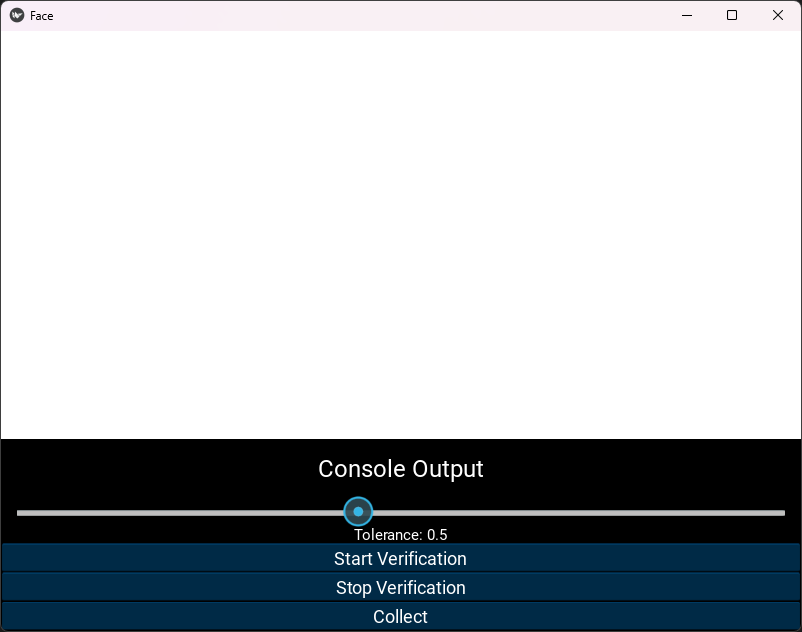
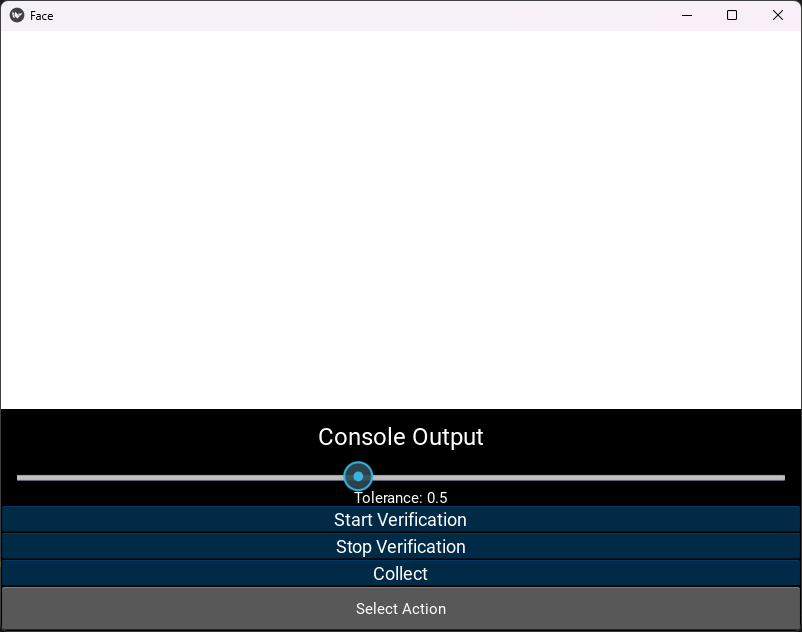
updated readme

Changed region(s): [[0.0, 0.6313, 1.0, 1.0]]

diff --git a/main.py b/main.py
@@ -1,6 +1,6 @@
-#Importing dependencies
+# Importing dependencies
 
-#Dpendencies for kivy
+# Dendencies for kivy
 from kivy.config import Config
 from kivy.core.text import LabelBase
 from kivy.utils import get_color_from_hex
@@ -15,16 +15,16 @@ from kivy.logger import Logger
 from kivy.uix.slider import Slider
 from kivy.uix.dropdown import DropDown
 
-#OpenCV2
+# OpenCV2
 import cv2
 
-#Tensorflow
+# Tensorflow
 import tensorflow as tf
 from tensorflow import keras
 from tensorflow.keras.models import load_model
 import face_recognition
 
-#Miscellaneous
+# Miscellaneous
 import ctypes
 import pickle
 import time
@@ -38,9 +38,9 @@ Config.set('kivy', 'window_icon', 'data\kivy\icon.ico')
 # Register a custom font
 LabelBase.register(name='Roboto', fn_regular=os.path.join('data', 'font', 'Roboto-Regular.ttf'))
 
-#Defining class for the application
+# Defining class for the application
 class FaceApp(App):
-    #The build function is the __init__ function for kivy based applications
+    # The build function is the __init__ function for kivy based applications
     def build(self):
         # Layout Configuration
         layout = BoxLayout(orientation='vertical', padding=10, spacing=10)
@@ -75,7 +75,7 @@ class FaceApp(App):
         self.mainbutton.bind(on_release=self.dropdown.open)
         self.dropdown.bind(on_select=lambda instance, x: setattr(self.mainbutton, 'text', x))
         self.bboxcolour = (255, 0, 0)
-        #Cheking to see if the files structure is correct and building them if necessary using the os library
+        # Cheking to see if the files structure is correct and building them if necessary using the os library
         try:
             with open(os.path.join('data', 'encodings', 'face_encodings.pickle'), 'rb') as openfile:
                 self.known_faces = pickle.load(openfile)
@@ -87,7 +87,7 @@ class FaceApp(App):
 
         if not os.path.exists(os.path.join('data', 'collected_images')):
             os.makedirs(os.path.join('data', 'collected_images'))
-        #Defining the order and orientation of the kivy widgets
+        # Defining the order and orientation of the kivy widgets
         layout = BoxLayout(orientation='vertical')
         layout.add_widget(self.livefeed)
         layout.add_widget(self.consoleoutput)
@@ -97,14 +97,14 @@ class FaceApp(App):
         layout.add_widget(self.stopverifybutton)
         layout.add_widget(self.collectbutton)
         layout.add_widget(self.mainbutton)
-        #Telling OpenCV to flip the camera output along the vertical axis and use a 720,720 resolution
+        # Telling OpenCV to flip the camera output along the vertical axis and use a 720,720 resolution
         self.capture = cv2.VideoCapture(0)
         self.capture.set(cv2.CAP_PROP_FRAME_WIDTH, 720)
         self.capture.set(cv2.CAP_PROP_FRAME_WIDTH, 720)
         self.face_detection_running = False
         Clock.schedule_interval(self.face_detection, 1.0 / 33.0)
         return layout
-    #Defining the functions of the buttons
+    # Defining the functions of the buttons
     def start_face_detection(self, *args):
         self.face_detection_running = True
         self.verifybutton.background_color = get_color_from_hex('#7BE495')
@@ -122,73 +122,73 @@ class FaceApp(App):
         if not self.face_detection_running:
             return
         
-        ret, frame = self.capture.read() #Telling OpenCV to access the webcam
+        ret, frame = self.capture.read() # Telling OpenCV to access the webcam
         rgb = cv2.cvtColor(frame, cv2.COLOR_BGR2RGB)
         
-        resized = tf.image.resize(rgb, (224, 224)) #Using a built in tensorflow function to resize the image to fit the input of the CNN, it is resized and not cropped so the information about the geometry is still there
+        resized = tf.image.resize(rgb, (224, 224)) # Using a built in tensorflow function to resize the image to fit the input of the CNN, it is resized and not cropped so the information about the geometry is still there
         
-        yhat = self.face_detector.predict(np.expand_dims(np.divide(resized, 255), 0)) #Pretty proud of this code, this is to normalise the values of each of the pixel valus from 0-255 to 0-1 for use in the CNN
+        yhat = self.face_detector.predict(np.expand_dims(np.divide(resized, 255), 0)) # Pretty proud of this code, this is to normalise the values of each of the pixel valus from 0-255 to 0-1 for use in the CNN
         
-        xmin, ymin, xmax, ymax = yhat[1][0] #Utlilising unpacking to save the bounding box coordinates into their respective variables
+        xmin, ymin, xmax, ymax = yhat[1][0] # Utlilising unpacking to save the bounding box coordinates into their respective variables
         
-        abs_xmin, abs_ymin, abs_xmax, abs_ymax = np.multiply([xmin, ymin, xmax, ymax], 720).astype(int) #Converting the normalised coordinates back into pixel coordinates
-        #Drawing a bounding box if the confidence is greater than 0.5 (50%)
+        abs_xmin, abs_ymin, abs_xmax, abs_ymax = np.multiply([xmin, ymin, xmax, ymax], 720).astype(int) # Converting the normalised coordinates back into pixel coordinates
+        # Drawing a bounding box if the confidence is greater than 0.5 (50%)
         if yhat[0] > 0.5:
-            #Some manipulation of the bounding box
+            # Some manipulation of the bounding box
             cv2.rectangle(frame, (abs_xmin - 20, abs_ymin - 20), (abs_xmax - 50, abs_ymax - 50), self.bboxcolour, 2)
             cv2.circle(frame, (abs_xmin - 20, abs_ymin - 20), radius=2, color=(0, 0, 255), thickness=2)
             cv2.circle(frame, (abs_xmax - 50, abs_ymax - 50), radius=2, color=(0, 0, 255), thickness=2)
             self.consoleoutput.text = 'Face Detected'
             self.bboxcolour = (255, 0, 0)
-            #If no faces are recognised the function will return nothing, then all indexes will be out of range and the application will fail, to prevent this a try/except block is used
+            # If no faces are recognised the function will return nothing, then all indexes will be out of range and the application will fail, to prevent this a try/except block is used
             try:
                 
-                cropped_frame = frame[abs_ymin - 20:abs_ymax - 50, abs_xmin - 20:abs_xmax - 50] #This is cool, using indexing to crop the webcam feed be only the face and saving it as another variable for use later
+                cropped_frame = frame[abs_ymin - 20:abs_ymax - 50, abs_xmin - 20:abs_xmax - 50] # This is cool, using indexing to crop the webcam feed be only the face and saving it as another variable for use later
                 
-                rgb_cropped_frame = cv2.cvtColor(cropped_frame, cv2.COLOR_BGR2RGB) #Manipulatin of colour and OpenCV uses BGR format
+                rgb_cropped_frame = cv2.cvtColor(cropped_frame, cv2.COLOR_BGR2RGB) # Manipulatin of colour and OpenCV uses BGR format
                 unknown_face_encoding = face_recognition.face_encodings(rgb_cropped_frame)
-                #Creating a flag to represent the state of the system for use later
+                # Creating a flag to represent the state of the system for use later
                 flag = False
-                #Looping through the collection of face encodings of a presaved known face
+                # Looping through the collection of face encodings of a presaved known face
                 for known_face in self.known_faces:
-                    #Comparing faces
+                    # Comparing faces
                     results = face_recognition.compare_faces(known_face, unknown_face_encoding,
                                                              tolerance=self.tolerance)
-                    #If an authorised face is deteced
+                    # If an authorised face is deteced
                     if results[0] == True:
                         counter = 0
-                        #set the flag to true and print it in the console for debuggin purposes
+                        # set the flag to true and print it in the console for debuggin purposes
                         flag = True
                         print(flag)
                         self.consoleoutput.text = 'Face Detected | Authorised'
-                        #Set bounding box colour to green for it to be intuitive
+                        # Set bounding box colour to green for it to be intuitive
                         self.bboxcolour = (0, 255, 0)
                         print(counter)
                         break
-                #If an unauthorised face is deteced
+                # If an unauthorised face is deteced
                 if flag == False:
-                    #Add one to the counter of failed attempts
+                    # Add one to the counter of failed attempts
                     self.counter += 1
                     print(flag)
                     self.consoleoutput.text = 'Face Detected | Not Authorised'
-                    #Set the bounding box to red
+                    # Set the bounding box to red
                     self.bboxcolour = (0, 0, 255)
                     print(counter)
             except:
-                #This took a long time to figure out, pass ensures that the next bit of the code still runs in case the loop is paused mid way
+                # This took a long time to figure out, pass ensures that the next bit of the code still runs in case the loop is paused mid way
                 pass
-            #Defining what to do if there are three failed attempts within 1 minute
+            # Defining what to do if there are three failed attempts within 1 minute
             if self.counter == 3:
                 print('fail limit reached')
-                #Resetting the counter so that an authorised user can log in and still use the system
+                # Resetting the counter so that an authorised user can log in and still use the system
                 self.counter = 0
                 if self.mainbutton.text == 'Lock System':
-                    #Using ctypes to send a lock command
+                    # Using ctypes to send a lock command
                     ctypes.windll.user32.LockWorkStation()
                 elif self.mainbutton.text == "Just Notify":
                     current_time = time.time()
                     print(f"Time since last notification: {current_time - self.last_notification_time}")
-                    #Sending notification only if the last one was sent over a minute ago
+                    # Sending notification only if the last one was sent over a minute ago
                     if current_time - self.last_notification_time > 60:
                         print("Sending notification...")
                         toast = Notification(app_id='Face Recognition', title='Unauthorized Access', msg='You are not authorized to access this system', duration='long', icon=r'C:\Users\Administrator\Documents\Code_Files\Facial_Recognition_App\data\kivy\icon.ico')
@@ -198,40 +198,40 @@ class FaceApp(App):
                     else:
                         print("Not enough time has passed since the last notification.")
 
-            #Resetting the time currrent_time variables which governs time elapsed for the current counter
+            # Resetting the time currrent_time variables which governs time elapsed for the current counter
             current_time = time.time()
-            #This if statement resets the counter every 60 seconds
+            # This if statement resets the counter every 60 seconds
             if current_time - self.last_reset_time > 60:
                 self.counter = 0
                 self.last_reset_time = current_time
-        #Prints no face detected if nothing at all is detected
+        # Prints no face detected if nothing at all is detected
         else:
             self.consoleoutput.text = 'No Face Detected'
-        #Very hacking way to display the live camera feed, there is no native function for it in kivy, this is a texture that is mapped onto a box that gets updated as soon as another frame is received from the webcam
+        # Very hacking way to display the live camera feed, there is no native function for it in kivy, this is a texture that is mapped onto a box that gets updated as soon as another frame is received from the webcam
         buf = cv2.flip(frame, 0).tostring()
         video_texture = Texture.create(size=(frame.shape[1], frame.shape[0]), colorfmt='bgr')
         video_texture.blit_buffer(buf, colorfmt='bgr', bufferfmt='ubyte')
         self.livefeed.texture = video_texture
-    #Defining the function of collecting images of an authorised face and converting them into face encodings for use in facial recognition
+    # Defining the function of collecting images of an authorised face and converting them into face encodings for use in facial recognition
     def datacollection(self, *args):
 
         capture = cv2.VideoCapture(0)
         capture.set(cv2.CAP_PROP_FRAME_WIDTH, 720)
         capture.set(cv2.CAP_PROP_FRAME_WIDTH, 720)
-        #Defining that we would collect 9 images
+        # Defining that we would collect 9 images
         self.consoleoutput.text = 'Data Collection Started'
         for imgnum in range(9):
             ret, frame = capture.read()
             rgb = cv2.cvtColor(frame, cv2.COLOR_BGR2RGB)
             resized = tf.image.resize(rgb, (224, 224))
             yhat = self.face_detector.predict(np.expand_dims(np.divide(resized, 255), 0))
-            #Utilising the face detection CNN to collect only the face to improve performance and accuracy of the face recognition model
+            # Utilising the face detection CNN to collect only the face to improve performance and accuracy of the face recognition model
             xmin, ymin, xmax, ymax = yhat[1][0]
             abs_xmin, abs_ymin, abs_xmax, abs_ymax = np.multiply([xmin, ymin, xmax, ymax], 720).astype(int)
 
             cropped_frame = frame[abs_ymin - 20:abs_ymax - 50, abs_xmin - 20:abs_xmax - 50]
             rgb_cropped_frame = cv2.cvtColor(cropped_frame, cv2.COLOR_BGR2RGB)
-            #Naming the images intuitively using an f string
+            # Naming the images intuitively using an f string
             image_name = os.path.join('data', 'collected_images', f'{imgnum}.jpg')
             time.sleep(1)
             cv2.imwrite(image_name, cropped_frame)
@@ -241,25 +241,25 @@ class FaceApp(App):
         cv2.destroyAllWindows()
 
         known_face_encodings = []
-        #Starting the loop to convert the collected images of faces into face encodings
+        # Starting the loop to convert the collected images of faces into face encodings
         for i in range(9):
             my_face = face_recognition.load_image_file(os.path.join('data', 'collected_images', f'{i}.jpg'))
             my_face_encoding = face_recognition.face_encodings(my_face)
             if len(my_face_encoding) > 0:
-                #I put them in a list so that I can index them in a loop instead of having to call each individual face encoding seperately
+                # I put them in a list so that I can index them in a loop instead of having to call each individual face encoding seperately
                 known_face_encodings.append(my_face_encoding[0])
             else:
                 print(f'No face detected in image {i}.jpg')
-        #Pickling them into a binary file a sort of pseudoencryption algorithm
+        # Pickling them into a binary file a sort of pseudoencryption algorithm
         with open(os.path.join('data', 'encodings', 'face_encodings.pickle'), 'wb') as f:
             pickle.dump(known_face_encodings, f)
-        #Waiting 5 seconds to ensure that the encodings have been pickled
+        # Waiting 5 seconds to ensure that the encodings have been pickled
         time.sleep(5)
-        #Deleting all the unnesecary files generated in the process
+        # Deleting all the unnesecary files generated in the process
         for file in os.listdir(os.path.join('data', 'collected_images')):
             if os.path.isfile(os.path.join('data', 'collected_images', file)):
                 os.remove(os.path.join('data', 'collected_images', file))
 
-#Calling the main application
+# Calling the main application
 if __name__ == '__main__':
     FaceApp().run()

diff --git a/README.md b/README.md
@@ -8,7 +8,7 @@ As a prerequisite, please make sure that:
 - All dependencies outlined in the requirements.txt file are installed in you preferred directory and environment.
 - The latest version of Git is installed
 - Python 3.9+  is installed and dded to the system path
-- A working GPU environment is not required but it project does work with one
+- A working GPU environment is not required but the project does work with one, for more information checck out the [tensorflow documentation](https://www.tensorflow.org/install/source)
 ## Initial Setup
 ### Cloning Repository and Installing Dependencies
 #### 1. Clone the repository
@@ -27,14 +27,19 @@ C:\> pip install -r requirements.txt
 ## Overview of Controls
 ![Alt text](/readmedata/appimage.png?raw=true "Title")
 #### **Console Output:** Outputs the current status of the application and other information abou the facial recognition process
-#### **Tolerance Slider:** Allows for the tuning of the  sensitivity (tolerance) of the face recognition system. 1 is the most lenient and 0.1 is the most strict. In General you should tune this so that only you can trigger the authorised output in the console
-#### **Start Verification:** Starts the face recognition process
-#### **Stop Verification:** Stops the face recognition process
-#### **Collect:** Starts the face data collection process for use in facial recognition
+#### **`Tolerance Slider`:** Allows for the tuning of the  sensitivity (tolerance) of the face recognition system. 1 is the most lenient and 0.1 is the most strict. In General you should tune this so that only you can trigger the authorised output in the console
+#### **`Start Verification`:** Starts the face recognition process
+#### **`Stop Verification`:** Stops the face recognition process
+#### **`Collect`:** Starts the face data collection process for use in facial recognition
+#### **`Select Action`:** Allows you to select what happens after 3 consecutive unauthorized faces are detected
+![Alt text](/readmedata/notifyselection.png?raw=true "Title")
 ## Start Facial Recognition
 #### 1. Press the `collect` button to start collecting your face for the system to recognize.
 #### 2. This process will take a series of photos with a live feed presented to you on the screen.
 ![Alt text](/readmedata/collectiondemo.png?raw=true "Title")
 #### 3. Please tilt your head whilst facing the camera for multiple angles to be taken.
 #### 4. Once the collection process has finished, you can press the `start verfication` button to start the face recognition process and then press the `stop verfication` button to stop the face recognition.
-#### 5. 3 Unauthorised faces detected within a window of 60 seconds will trigger the device to lock. The counter resets every 60 secconds
+#### 5. 3 Unauthorised faces detected within a window of 60 seconds will trigger the device to lock or a system notification depending on how you select. The counter resets every 60 secconds
+## Notes
+
+The application expects a speccific directory structure for storing enccodings and other data. Please ensure that required directories exist.
